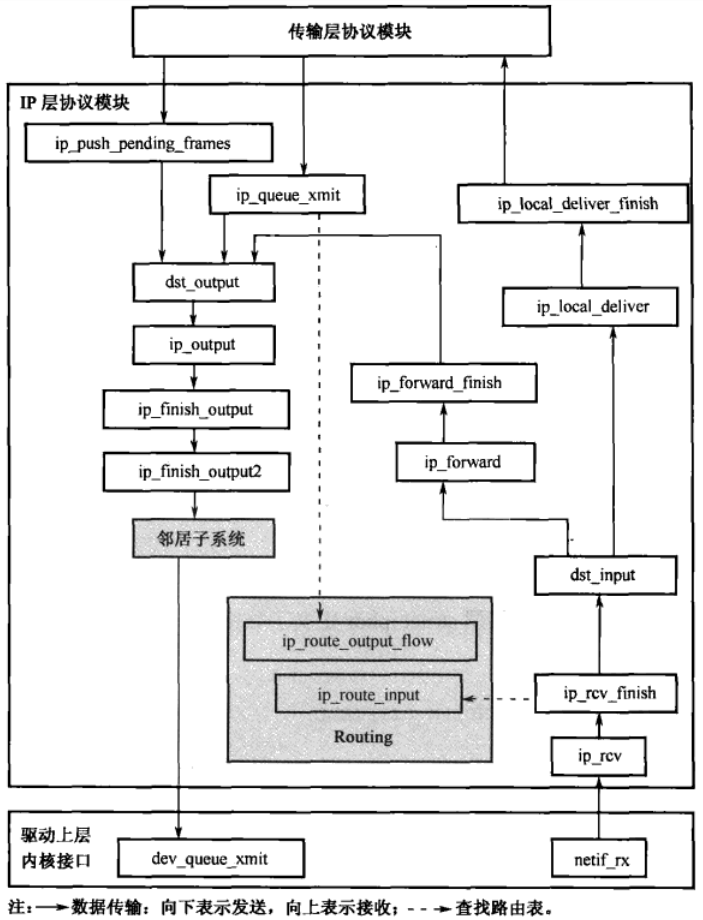
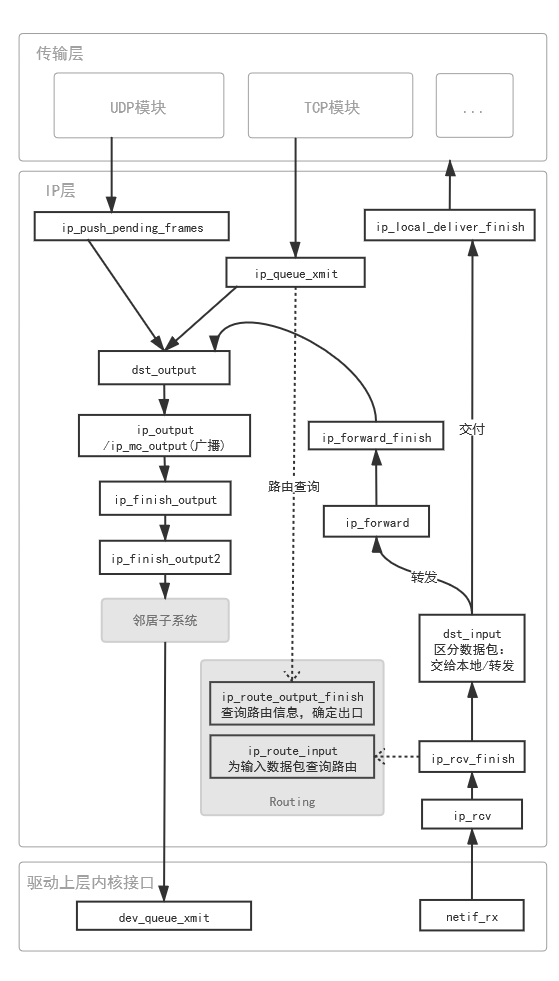
Site updated: 2020-02-28 15:04:28

Changed region(s): [[0.0, 0.0, 1.0, 1.0]]

diff --git a/2020/02/25/Linux网络内核源码分析-网络层之IP层处理/index.html b/2020/02/25/Linux网络内核源码分析-网络层之IP层处理/index.html
@@ -56,7 +56,7 @@
 </script>
 
   <meta name="description" content="关于IPv4IP简述IP包通过路由器向正确的方向跳转，以达到转发数据的效果。为了完成正确的效果，数据包必须包含源地址和目的地址。IP支持数据分片。如果数据过长，则将其分成一片一片的分片再发送。分片到达目的地的顺序可能与发送顺序不同，因此IP需要将分片重新组成原来的数据段。">
-<meta name="keywords" content="Linux,UDP,网络,源码">
+<meta name="keywords" content="Linux,网络,源码,UDP">
 <meta property="og:type" content="article">
 <meta property="og:title" content="Linux网络内核源码分析|网络层之IP层处理">
 <meta property="og:url" content="https://xingkunz.github.io/2020/02/25/Linux网络内核源码分析-网络层之IP层处理/index.html">
@@ -64,8 +64,7 @@
 <meta property="og:description" content="关于IPv4IP简述IP包通过路由器向正确的方向跳转，以达到转发数据的效果。为了完成正确的效果，数据包必须包含源地址和目的地址。IP支持数据分片。如果数据过长，则将其分成一片一片的分片再发送。分片到达目的地的顺序可能与发送顺序不同，因此IP需要将分片重新组成原来的数据段。">
 <meta property="og:locale" content="en">
 <meta property="og:image" content="https://xingkunz.github.io/2020/02/25/Linux网络内核源码分析-网络层之IP层处理/ip数据包.PNG">
-<meta property="og:image" content="https://xingkunz.github.io/2020/02/25/Linux网络内核源码分析-网络层之IP层处理/ip模块处理流程.PNG">
-<meta property="og:updated_time" content="2020-02-25T09:43:55.341Z">
+<meta property="og:updated_time" content="2020-02-28T06:58:42.021Z">
 <meta name="twitter:card" content="summary">
 <meta name="twitter:title" content="Linux网络内核源码分析|网络层之IP层处理">
 <meta name="twitter:description" content="关于IPv4IP简述IP包通过路由器向正确的方向跳转，以达到转发数据的效果。为了完成正确的效果，数据包必须包含源地址和目的地址。IP支持数据分片。如果数据过长，则将其分成一片一片的分片再发送。分片到达目的地的顺序可能与发送顺序不同，因此IP需要将分片重新组成原来的数据段。">
@@ -227,11 +226,19 @@
                 
               
 
-              <time title="Created: 2020-02-25 15:57:22 / Modified: 17:43:55" itemprop="dateCreated datePublished" datetime="2020-02-25T15:57:22+08:00">2020-02-25</time>
+              <time title="Created: 2020-02-25 15:57:22" itemprop="dateCreated datePublished" datetime="2020-02-25T15:57:22+08:00">2020-02-25</time>
             </span>
           
             
 
+            
+              <span class="post-meta-item">
+                <span class="post-meta-item-icon">
+                  <i class="fa fa-calendar-check-o"></i>
+                </span>
+                <span class="post-meta-item-text">Edited on</span>
+                <time title="Modified: 2020-02-28 14:58:42" itemprop="dateModified" datetime="2020-02-28T14:58:42+08:00">2020-02-28</time>
+              </span>
             
           
 
@@ -278,10 +285,16 @@
 <li>TCP模块调用函数<code>ip_queue_xmit()</code>进入IP层。</li>
 </ul>
 <p>这两个函数都为数据包封装了IP协议信息，把对应的头部加到套接字缓冲区内。</p>
-<img src="/2020/02/25/Linux网络内核源码分析-网络层之IP层处理/ip模块处理流程.PNG">
+
 <p><code>ip_queue_xmit()</code>会调用<code>ip_route_output_flow()</code>查找路由表：为套接字缓冲区设置路由出口信息。如果已有TCP连接，则套接字缓冲区保存了路由信息，则不需要这一步。</p>
 <p><strong>两条路下来，都调用<code>dst_output()</code>进入IP层发送流程：</strong></p>
 <p><code>dst_output()→ip_output()→ip_finish_output()→ip_finish_output2()→邻居子系统调用接口函数dev_queue_xmit()→底层网络设备驱动程序</code></p>
+<p><strong>如果是接收数据包:</strong></p>
+<p>网络设备驱动会通过接口<code>netif_rx()</code>把数据包递交给<code>ip_rcv()</code>，进入IP层。接着调用：<code>ip_rcv_finish()作数据包处理→ip_route_input为数据包查询路由信息，确定是转发/交付本地。如果是需要转发的，则不用再次查询路由。</code>接着，<code>ip_rcv_finish()→dst_input()分情况处理数据包：转发/交付本地</code>。</p>
+<p><strong>对于交付本地的数据包：</strong></p>
+<p><code>dst_input()→ip_local_deliver()对要交付的数据包进一步处理→ip_local_deliver_finish()把数据包交给传输层</code></p>
+<p><strong>对于要转发的数据包：</strong></p>
+<p><code>dst_input()→ip_forward()→ip_forward_finish()</code>，之后就按照发送数据包的方式发送，路由信息早已设置好。</p>
 <blockquote>
 <p>参考：《Linux网络内核分析与开发》，肖宇峰、李昕、时岩编著。</p>
 </blockquote>
@@ -302,11 +315,11 @@
             
               <a href="/tags/Linux/" rel="tag"># Linux</a>
             
-              <a href="/tags/UDP/" rel="tag"># UDP</a>
-            
               <a href="/tags/网络/" rel="tag"># 网络</a>
             
               <a href="/tags/源码/" rel="tag"># 源码</a>
+            
+              <a href="/tags/UDP/" rel="tag"># UDP</a>
             
           </div>
         

diff --git a/2020/02/16/Linux网络内核源码分析-传输层之UDP处理过程/index.html b/2020/02/16/Linux网络内核源码分析-传输层之UDP处理过程/index.html
@@ -56,7 +56,7 @@
 </script>
 
   <meta name="description" content="关于UDPUDP数据包source/dest：长16位，取值范围1~65535。len：有效负载和UDP数据报头的总长度，单位为字节。UDP初始化UDP和其他核心协议都是在启动阶段通过方法inet_init()来初始化的。">
-<meta name="keywords" content="Linux,UDP,网络,源码">
+<meta name="keywords" content="Linux,网络,源码,UDP">
 <meta property="og:type" content="article">
 <meta property="og:title" content="Linux网络内核源码分析|传输层之UDP处理过程">
 <meta property="og:url" content="https://xingkunz.github.io/2020/02/16/Linux网络内核源码分析-传输层之UDP处理过程/index.html">
@@ -64,8 +64,8 @@
 <meta property="og:description" content="关于UDPUDP数据包source/dest：长16位，取值范围1~65535。len：有效负载和UDP数据报头的总长度，单位为字节。UDP初始化UDP和其他核心协议都是在启动阶段通过方法inet_init()来初始化的。">
 <meta property="og:locale" content="en">
 <meta property="og:image" content="https://xingkunz.github.io/2020/02/16/Linux网络内核源码分析-传输层之UDP处理过程/UDP数据包.PNG">
-<meta property="og:image" content="https://xingkunz.github.io/2020/02/16/Linux网络内核源码分析-传输层之UDP处理过程/UDP模块处理流程.jpg">
-<meta property="og:updated_time" content="2020-02-25T08:57:16.086Z">
+<meta property="og:image" content="https://xingkunz.github.io/2020/02/16/Linux网络内核源码分析-传输层之UDP处理过程/UDP模块处理流程.png">
+<meta property="og:updated_time" content="2020-02-28T06:39:59.081Z">
 <meta name="twitter:card" content="summary">
 <meta name="twitter:title" content="Linux网络内核源码分析|传输层之UDP处理过程">
 <meta name="twitter:description" content="关于UDPUDP数据包source/dest：长16位，取值范围1~65535。len：有效负载和UDP数据报头的总长度，单位为字节。UDP初始化UDP和其他核心协议都是在启动阶段通过方法inet_init()来初始化的。">
@@ -238,7 +238,7 @@
                   <i class="fa fa-calendar-check-o"></i>
                 </span>
                 <span class="post-meta-item-text">Edited on</span>
-                <time title="Modified: 2020-02-25 16:57:16" itemprop="dateModified" datetime="2020-02-25T16:57:16+08:00">2020-02-25</time>
+                <time title="Modified: 2020-02-28 14:39:59" itemprop="dateModified" datetime="2020-02-28T14:39:59+08:00">2020-02-28</time>
               </span>
             
           
@@ -287,7 +287,7 @@
 <p>UDP采用SOCK_DGRAM类型的INET套接字，所以查询函数集后，最后两步具体调用的函数是：</p>
 <p><code>→ inet_sendmsg() → udp_sendmsg()</code></p>
 <p>自此，网络数据包从应用程序的发送函数开始，已经过套接字接口，应用程序把应用层数据内容置入内核，并通知内核的<strong>UDP协议模块</strong>继续发送数据。下面主要关注UDP协议模块中的处理流程，直到UDP协议模块将数据包交给IP层协议模块。</p>
-<img src="/2020/02/16/Linux网络内核源码分析-传输层之UDP处理过程/UDP模块处理流程.jpg" title="UDP模块处理流程">
+<img src="/2020/02/16/Linux网络内核源码分析-传输层之UDP处理过程/UDP模块处理流程.png" title="UDP模块处理流程">
 <p>如果在应用层调用发送函数，若采用SOCK_DGRAM套接字，会触发内核<code>udp_sendmsg</code>调用，查找路由信息后，调用<code>ip_append_data</code>对数据做分片处理，然后调用<code>udp_push_pending_frames</code>进行UDP包封装，并把数据包交给IP层处理。</p>
 <p>如果在应用层调用接收函数，IP层取出数据内容后，函数<code>ip_local_deliver_finish</code>会调用UDP模块的<code>udp_rcv</code>函数。数据包会被加入套接字队列，再由函数<code>udp_recvmsg</code>取出，并通知应用程序函数读取数据。</p>
 <h2 id="UDP包的发送"><a href="#UDP包的发送" class="headerlink" title="UDP包的发送"></a>UDP包的发送</h2><p>应用层采用SOCK_DGRAM套接字发送数据，会触发内核<code>udp_sendmsg</code>调用。</p>
@@ -451,11 +451,11 @@
             
               <a href="/tags/Linux/" rel="tag"># Linux</a>
             
-              <a href="/tags/UDP/" rel="tag"># UDP</a>
-            
               <a href="/tags/网络/" rel="tag"># 网络</a>
             
               <a href="/tags/源码/" rel="tag"># 源码</a>
+            
+              <a href="/tags/UDP/" rel="tag"># UDP</a>
             
           </div>
         

diff --git a/index.html b/index.html
@@ -219,11 +219,19 @@
                 
               
 
-              <time title="Created: 2020-02-25 15:57:22 / Modified: 17:43:55" itemprop="dateCreated datePublished" datetime="2020-02-25T15:57:22+08:00">2020-02-25</time>
+              <time title="Created: 2020-02-25 15:57:22" itemprop="dateCreated datePublished" datetime="2020-02-25T15:57:22+08:00">2020-02-25</time>
             </span>
           
             
 
+            
+              <span class="post-meta-item">
+                <span class="post-meta-item-icon">
+                  <i class="fa fa-calendar-check-o"></i>
+                </span>
+                <span class="post-meta-item-text">Edited on</span>
+                <time title="Modified: 2020-02-28 14:58:42" itemprop="dateModified" datetime="2020-02-28T14:58:42+08:00">2020-02-28</time>
+              </span>
             
           
 
@@ -333,7 +341,7 @@
                   <i class="fa fa-calendar-check-o"></i>
                 </span>
                 <span class="post-meta-item-text">Edited on</span>
-                <time title="Modified: 2020-02-25 16:57:16" itemprop="dateModified" datetime="2020-02-25T16:57:16+08:00">2020-02-25</time>
+                <time title="Modified: 2020-02-28 14:39:59" itemprop="dateModified" datetime="2020-02-28T14:39:59+08:00">2020-02-28</time>
               </span>
             
           

diff --git a/2020/01/01/Linux网络内核源码分析-套接字相关的数据结构和功能实现/index.html b/2020/01/01/Linux网络内核源码分析-套接字相关的数据结构和功能实现/index.html
@@ -56,7 +56,7 @@
 </script>
 
   <meta name="description" content="管理套接字的数据类型套接字缓冲区类型 struct sk_buff, struct sk_buff_head skbuff.h struct sk_buff是套接字缓冲区类型，用来管理网络数据包，为发/收的网络数据提供存储区域和操作方法。sk_buff数据类型贯穿数据传输全过程，是十分重要的数据结构。">
-<meta name="keywords" content="Linux,网络,源码,套接字">
+<meta name="keywords" content="Linux,套接字,网络,源码">
 <meta property="og:type" content="article">
 <meta property="og:title" content="Linux网络内核源码分析|套接字相关的数据结构和功能实现">
 <meta property="og:url" content="https://xingkunz.github.io/2020/01/01/Linux网络内核源码分析-套接字相关的数据结构和功能实现/index.html">
@@ -410,11 +410,11 @@
             
               <a href="/tags/Linux/" rel="tag"># Linux</a>
             
+              <a href="/tags/套接字/" rel="tag"># 套接字</a>
+            
               <a href="/tags/网络/" rel="tag"># 网络</a>
             
               <a href="/tags/源码/" rel="tag"># 源码</a>
-            
-              <a href="/tags/套接字/" rel="tag"># 套接字</a>
             
           </div>
         

diff --git a/2020/01/09/Linux网络内核源码分析-套接字之收发数据、监听、连接、绑定/index.html b/2020/01/09/Linux网络内核源码分析-套接字之收发数据、监听、连接、绑定/index.html
@@ -56,7 +56,7 @@
 </script>
 
   <meta name="description" content="INET套接字类型 SOCK_STREAM：采用TCP协议服务，提供可靠的双工顺序数据流。 SOCK_DGRAM：采用UDP协议服务，提供双工数据传送，不保证不丢失、不错序。 SOCK_RAW：未采用TCP/UDP协议，应用程序可通过该套接字与IP层交互数据。">
-<meta name="keywords" content="Linux,网络,源码,套接字">
+<meta name="keywords" content="Linux,套接字,网络,源码">
 <meta property="og:type" content="article">
 <meta property="og:title" content="Linux网络内核源码分析|套接字之收发数据、监听、连接、绑定">
 <meta property="og:url" content="https://xingkunz.github.io/2020/01/09/Linux网络内核源码分析-套接字之收发数据、监听、连接、绑定/index.html">
@@ -370,11 +370,11 @@
             
               <a href="/tags/Linux/" rel="tag"># Linux</a>
             
+              <a href="/tags/套接字/" rel="tag"># 套接字</a>
+            
               <a href="/tags/网络/" rel="tag"># 网络</a>
             
               <a href="/tags/源码/" rel="tag"># 源码</a>
-            
-              <a href="/tags/套接字/" rel="tag"># 套接字</a>
             
           </div>
         

diff --git a/css/main.css b/css/main.css
@@ -1156,7 +1156,7 @@ pre .javascript .function {
 }
 .links-of-author a::before,
 .links-of-author span.exturl::before {
-  background: #6bd4ff;
+  background: #ff347d;
   border-radius: 50%;
   content: ' ';
   display: inline-block;
